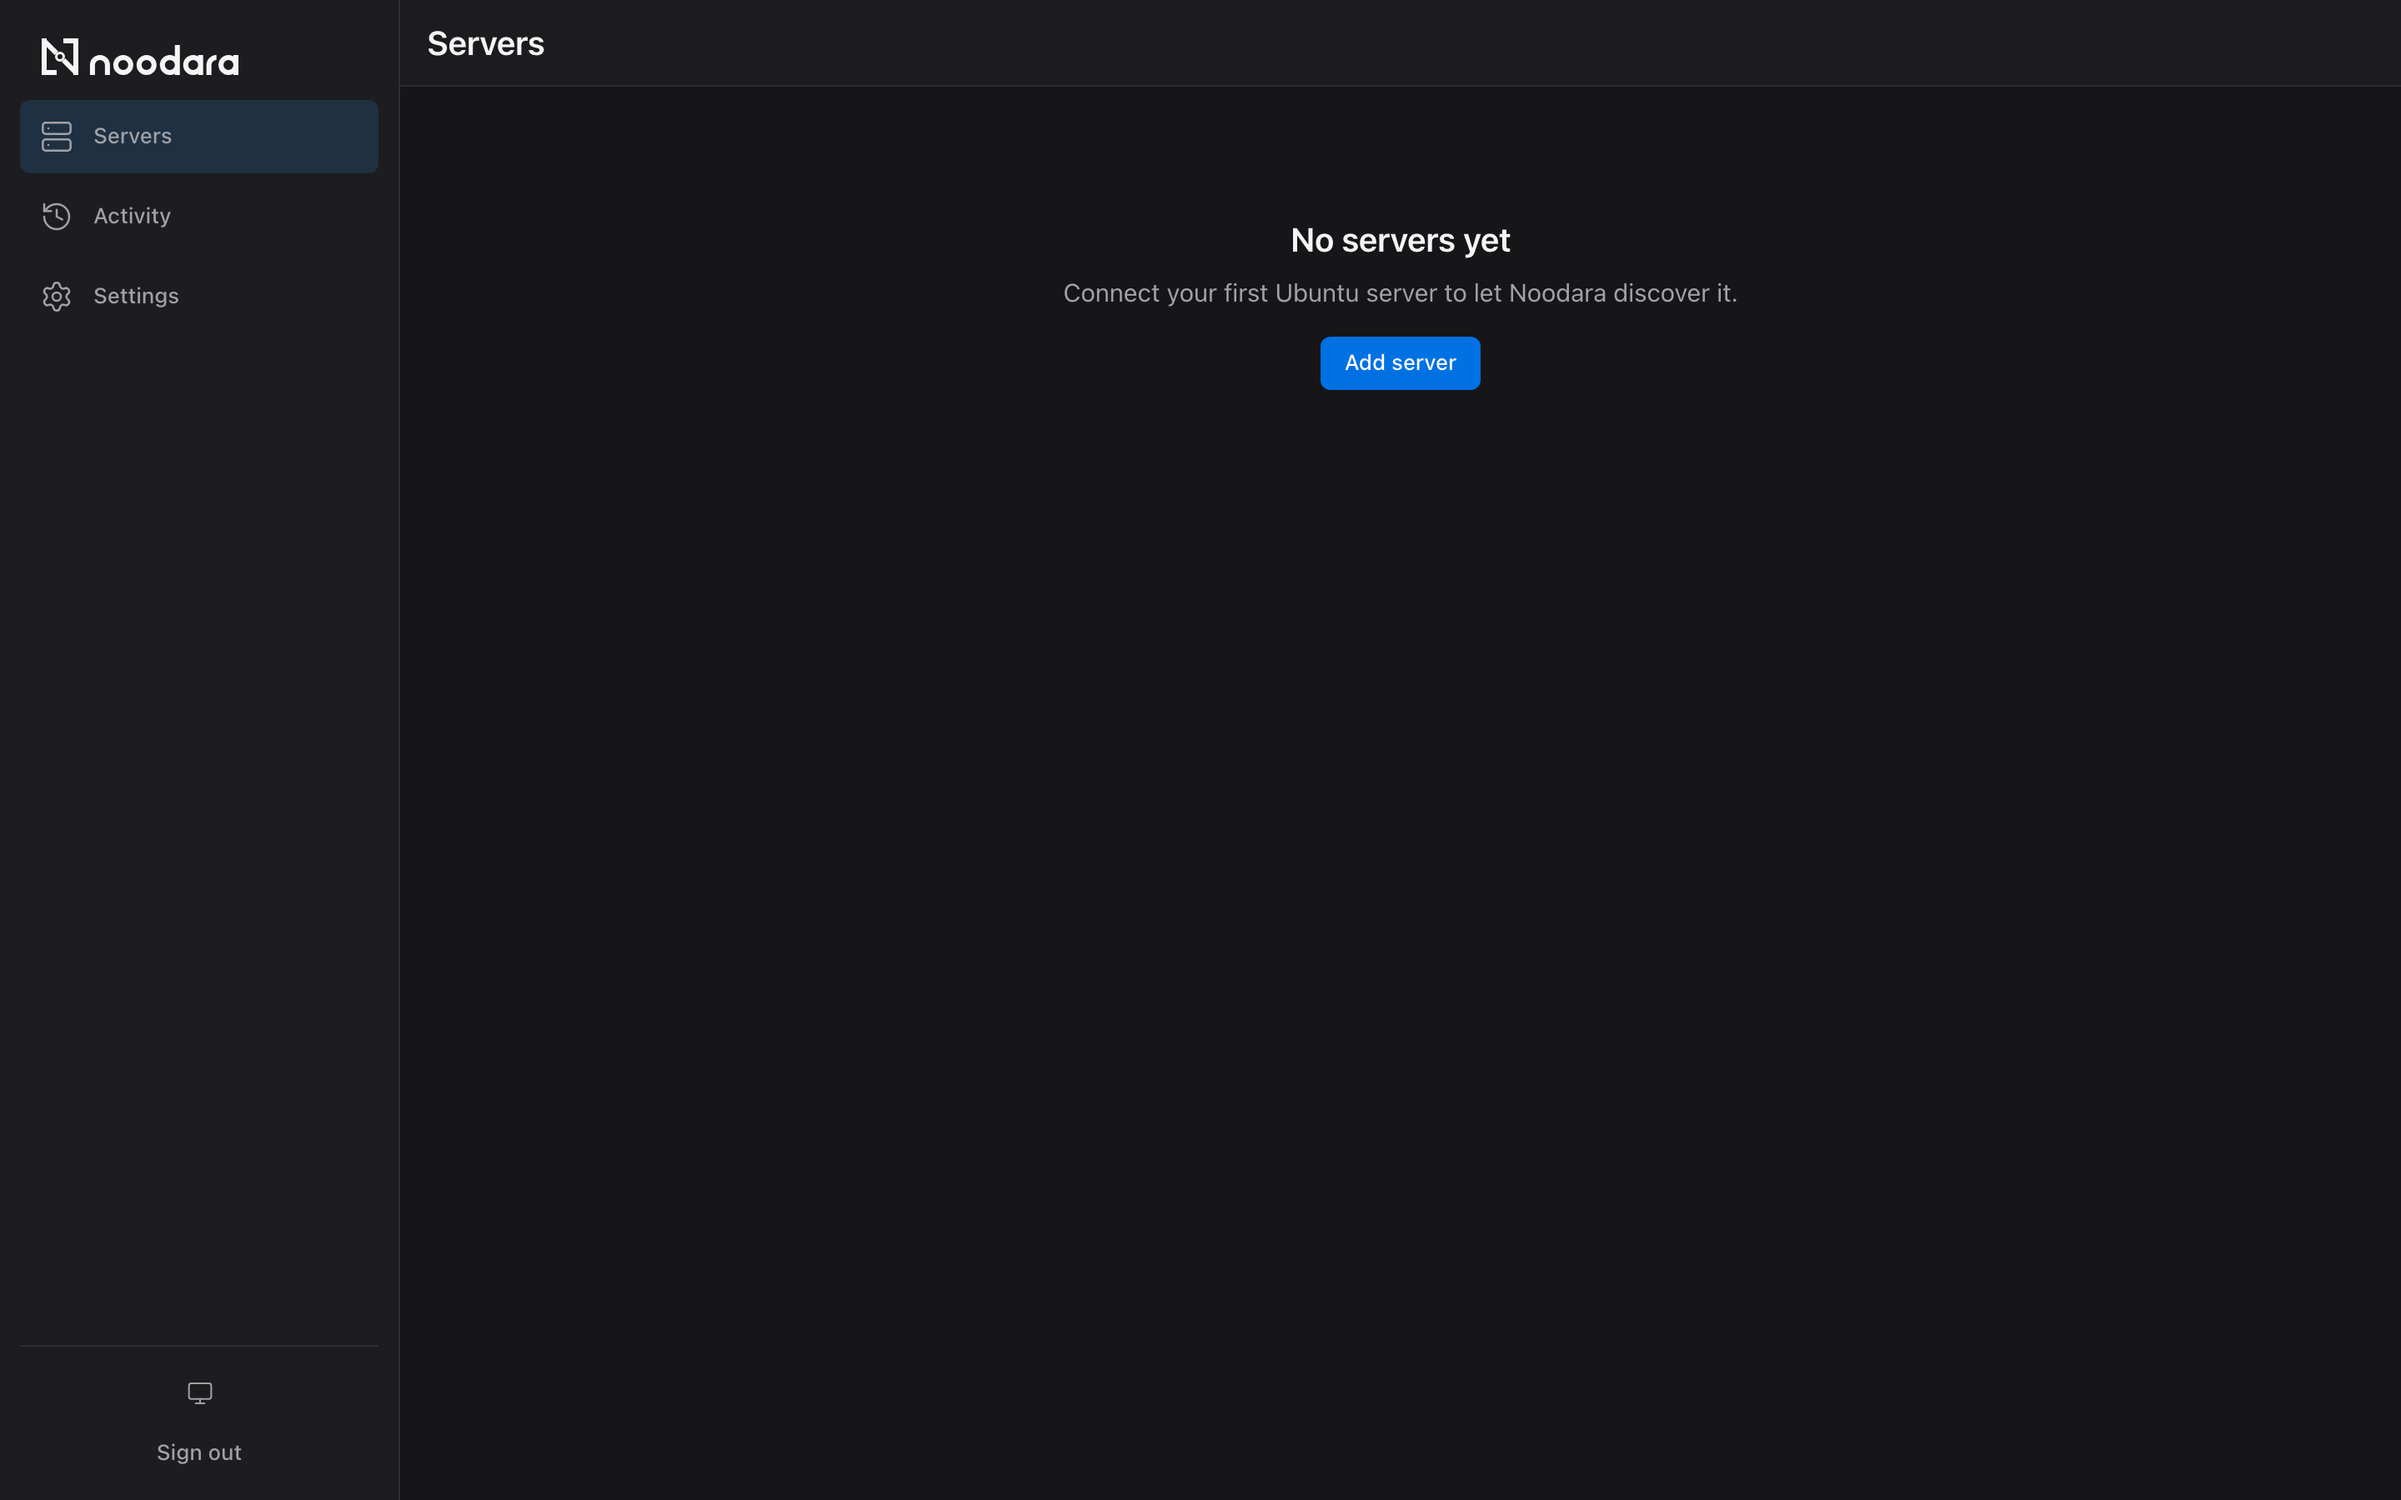
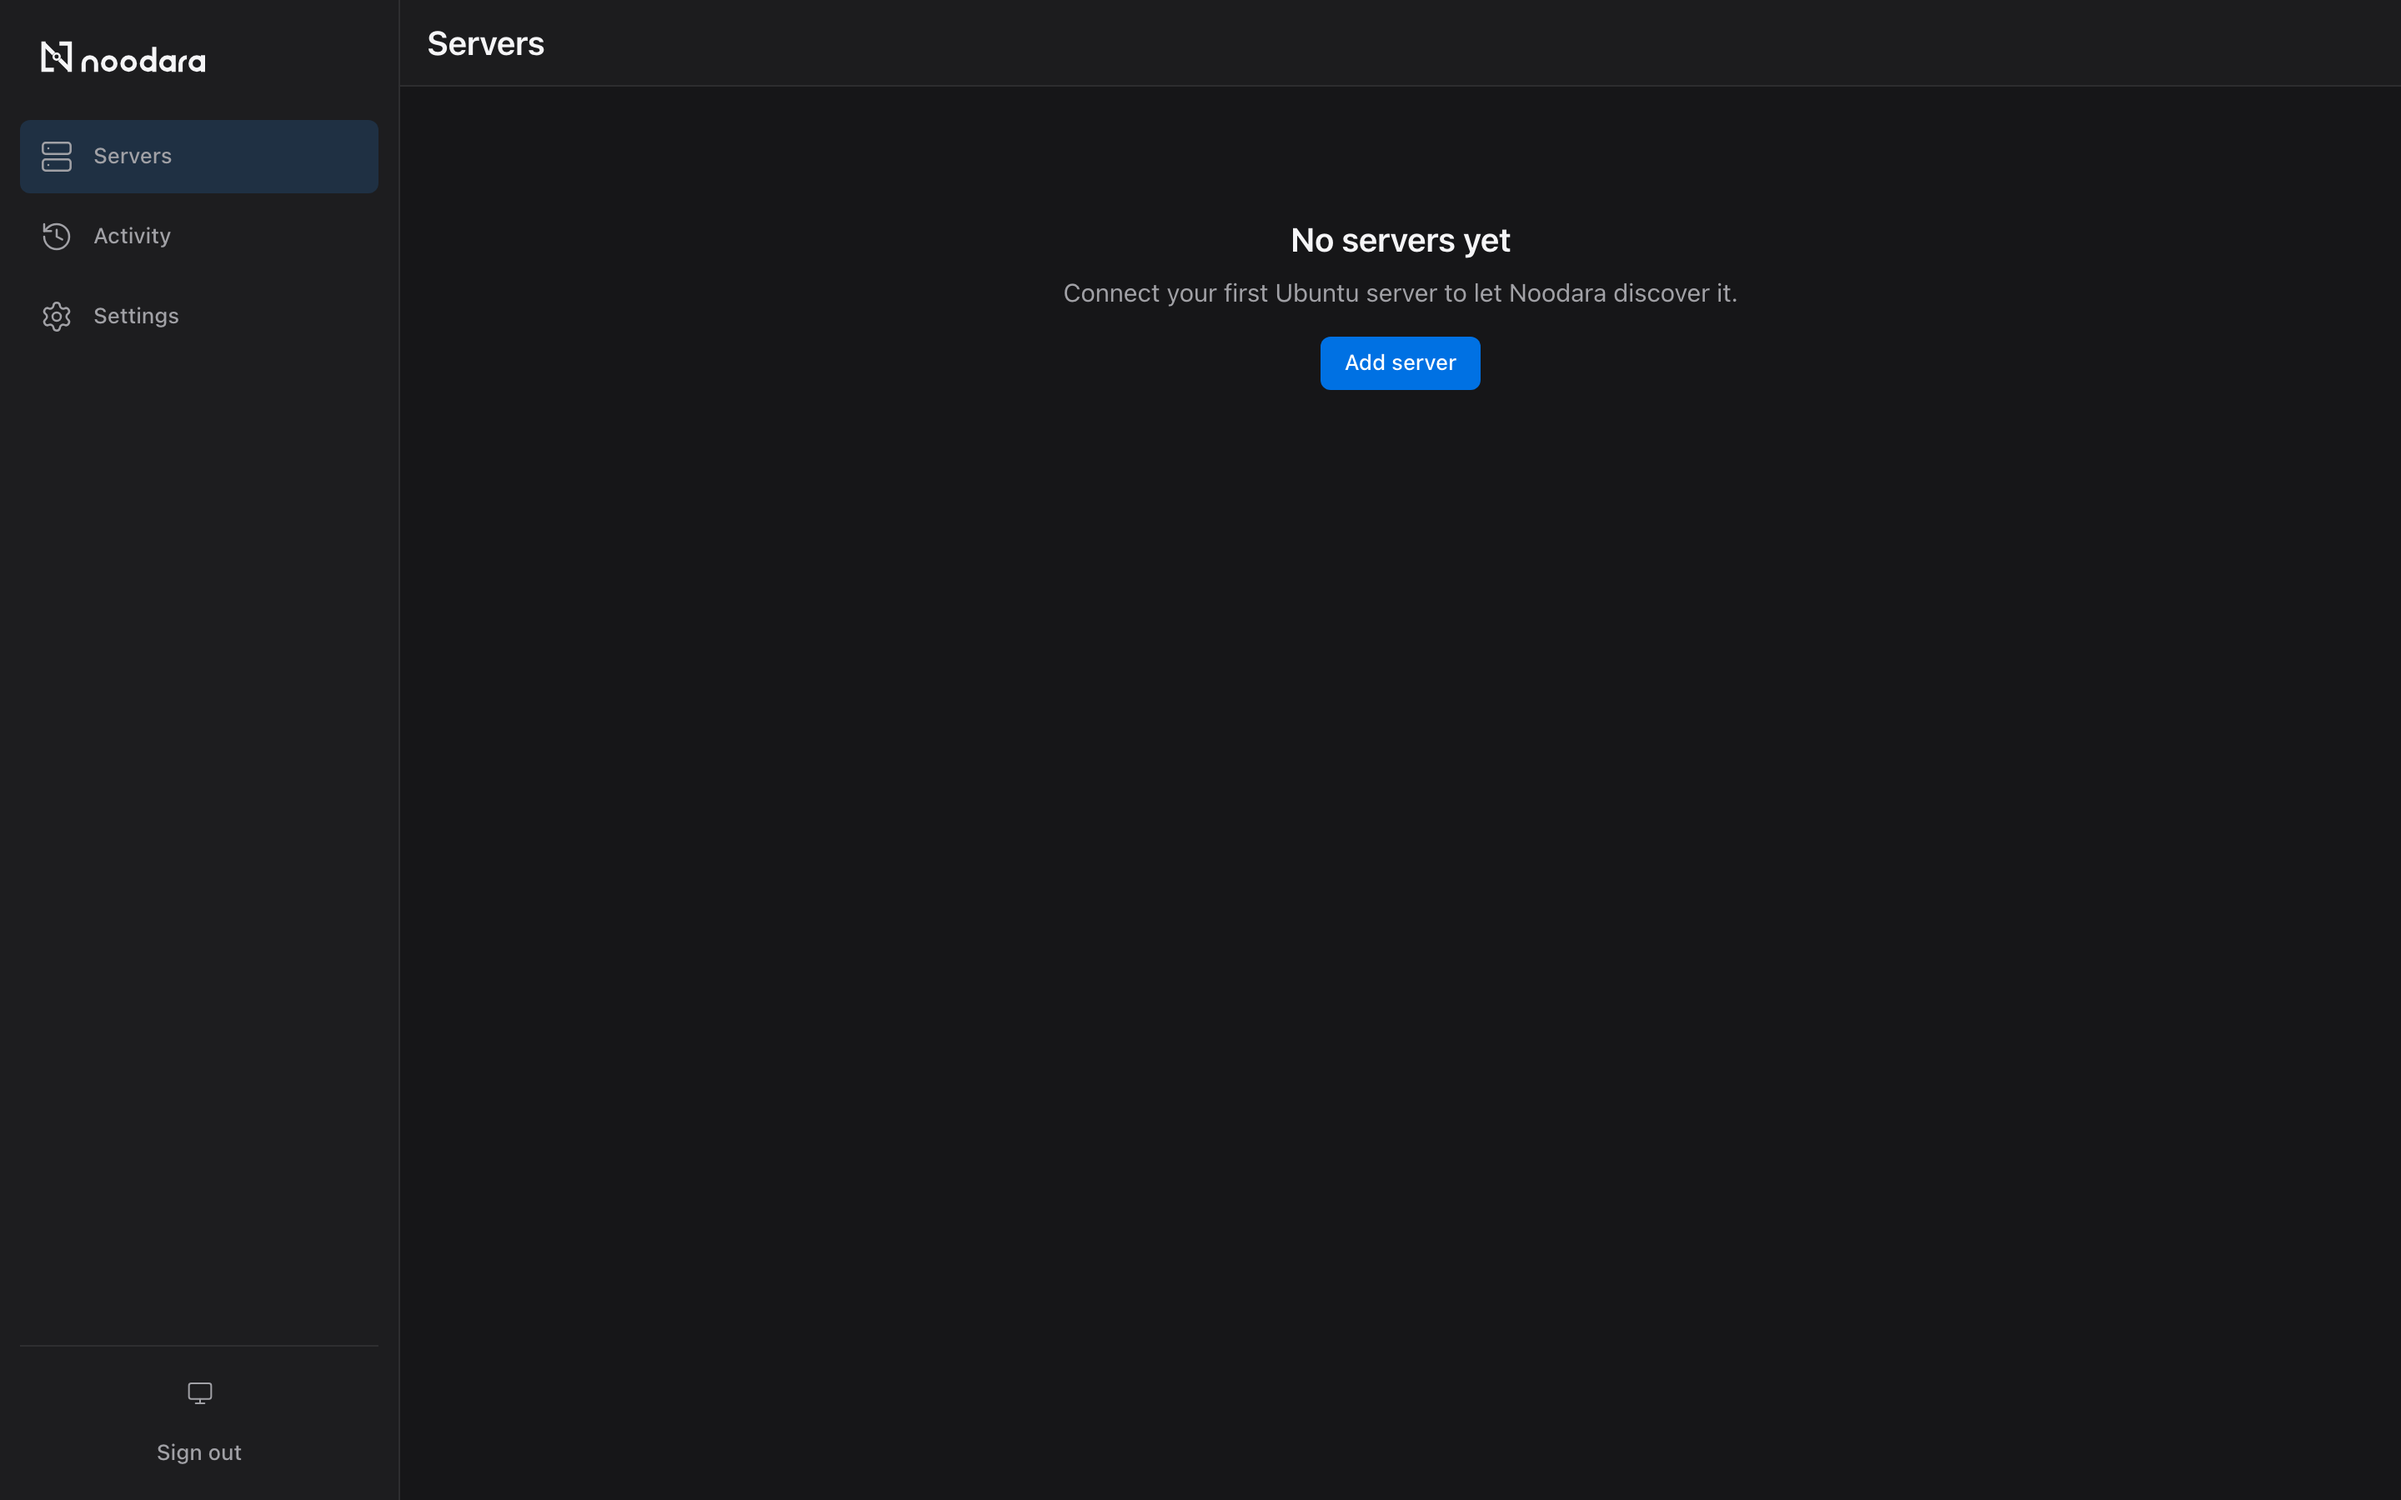
docs(07-07): ux review of the brand surfaces and refreshed approved captures
- docs/ui-review-07-brand.md: nine dimensions, global verdict PASS, no
  blockers, evidence by file:line, capture and passing assertion
- docs/brand/approved/: the eight in-app captures re-shot from the REAL
  mounted components (pnpm brand:review --mounted --concept c), replacing
  the review-time injected previews; the two boards are unchanged

Changed region(s): [[0.0, 0.0311, 0.1562, 0.1556], [0.0, 0.1867, 0.0938, 0.2178]]

diff --git a/docs/ui-review-07-brand.md b/docs/ui-review-07-brand.md
@@ -1,0 +1,84 @@
+# UX Review — Phase 7 brand surfaces (sidebar rail, expanded sidebar, /login, /setup)
+
+Date: 2026-09-22 · Commit: `51e3a05` · Reviewer: executor agent (`noodara-ux-review` skill, audited
+against `noodara-ux-apple`) · Mode: **screenshots + code**
+
+**Global verdict: PASS**
+
+Scope: the four surfaces BRAND-02 puts the approved mark on, and only those. Two files changed —
+`apps/web/src/components/Sidebar.tsx` (the brand slot above the nav list) and
+`apps/web/src/components/AuthCard.tsx` (the lockup above the heading). The mark itself
+(`packages/ui/src/brand/{Logo,Lockup}.tsx`) was audited in 07-03 and is unchanged here; this review
+covers how it is mounted, sized, coloured and announced.
+
+Screenshots are the eight freshly captured in-app surfaces in `docs/brand/approved/`, produced by
+`pnpm brand:review --mounted --concept c` from the real running stack with the real components —
+not the review-time DOM injection the earlier captures used. Four were opened and read directly
+(`sidebar-rail-light.png`, `sidebar-rail-dark.png`, `login-light.png`, `setup-dark.png`, plus the
+expanded-sidebar dark crop from `docs/brand/review/c/`).
+
+---
+
+## Verdicts by dimension
+
+| Dimension | Verdict | Evidence |
+|---|---|---|
+| 1. Tokens | PASS | The mark inherits its colour from `text-ink` on the wrapper and paints with `currentColor` — `Sidebar.tsx:37-38` (`BRAND_RAIL_CLASSES`/`BRAND_EXPANDED_CLASSES`, both ending in `text-ink`), `AuthCard.tsx:22`. No colour value is passed to either component: `grep -cE "color=\|text-accent\|fill=" apps/web/src/components/Sidebar.tsx apps/web/src/components/AuthCard.tsx` prints 0 for both, and the mounted SVG's own `fill` is asserted to be exactly `currentColor` in `Sidebar.test.tsx` ("renders the monogram as an svg painted with currentColor") and `AuthCard.test.tsx`. No hex, no `rgb(`, no gradient anywhere — `pnpm check:ui-safety` exits 0 on all nine repo-wide gates. D-09 holds: the single action colour is untouched by the brand, and in `login-light.png` the only blue on screen is still the Sign in button. |
+| 2. Surface and elevation | PASS | The brand slot adds no surface of its own: both wrappers are bare flex rows with no background, no border, no radius and no shadow (`Sidebar.tsx:37-38`, `AuthCard.tsx:22` — `flex items-center text-ink`). The sidebar's own `--surface-1` panel and hairline right border are unchanged (`Sidebar.tsx:59-63`), and the auth card keeps its single `rounded-lg`/`bg-surface-1` box (`AuthCard.tsx:21`). Visible in `sidebar-rail-dark.png`: the mark sits directly on the sidebar surface with no plate behind it. |
+| 3. Typography and hierarchy | PASS | No typographic level was added. The word "noodara" in the lockup is drawn geometry, not text (`packages/ui/src/brand/Lockup.tsx` renders `<path>` elements only), so the auth card still has exactly one heading level plus labels and body — `login-light.png` reads mark → `Sign in` (`--text-title`, weight 600, `AuthCard.tsx:25`) → field labels → button, three levels, unchanged from before the mark. The lockup at `height={22}` sits just under the `--text-title` cap height, so it reads as chrome above the heading rather than competing with it. |
+| 4. Layout and spacing | PASS | `h-11` (44px) is the sidebar's own item height (`ITEM_CLASSES`, `Sidebar.tsx:22-23`), and `px-3` is the same horizontal inset every nav item uses, so the monogram lands on the nav icons' own optical axis — visible in `sidebar-rail-light.png`, where the mark's centre sits directly above the Servers icon's centre in the 64px rail. `mb-3` (12px) is not a new number: `p-3`, `pt-3` and `gap-3` are already this file's established step (`Sidebar.tsx:59-63`, `:92`), and it separates brand from navigation by more than the 4px `gap-1` between nav items, which is the intent. The rail measures exactly 64px with the mark in it, asserted against the real browser in `tests/e2e/brand.spec.ts` ("the 64px rail shows the monogram and hides the lockup at 1024px"). On the auth card the mark takes the card's existing `gap-5` and adds no padding of its own (`AuthCard.tsx:21-24`). |
+| 5. Components | PASS | Both mount points compose `packages/ui`'s own `Logo`/`Lockup` rather than re-drawing anything (`Sidebar.tsx:14`, `:67`, `:70`; `AuthCard.tsx:2`, `:23`), and neither passes a `concept` or a `color` — the approved concept comes from `DEFAULT_CONCEPT` (`docs/brand/APPROVAL.md`), so a future adjustment round is a constant edit, never a call-site edit. The test ids are supplied by the caller (`brand-monogram`, `brand-lockup`), matching how `ThemeToggle` is given `shell-theme-toggle` two lines below. The mark is deliberately not a link or a button in v0.2 — asserted in `Sidebar.test.tsx` ("does not make the mark a link or a control"), which also pins the sidebar at exactly three links. |
+| 6. States (empty/loading/error) | PASS (nothing to regress) | The mark has no state: it renders identically whatever the page below it is doing, and it is outside every data-driven region. `sidebar-rail-light.png` and `sidebar-rail-dark.png` show it above the untouched "No servers yet" empty state (title + one sentence + one action, no illustration). No skeleton, no spinner and no banner changed — `pnpm check:ui-safety`'s `animate-spin`/`spinner` gate is still 0. |
+| 7. Progressive disclosure | PASS | The mark adds zero depth: it is chrome, always present at ≥900px, never a disclosure target. It is deliberately absent from the below-900px bottom sheet, where the only job is navigation and vertical space is scarce (`Sidebar.tsx:29-36` states this; proven in `tests/e2e/brand.spec.ts`, "the below-900px bottom sheet carries no mark, closed or open"). The rail keeps showing the monogram alone and the expanded sidebar the full lockup, so the amount of brand shown scales with the space available (D-04). |
+| 8. Copy | PASS | No user-facing string was added. The one new piece of text in the DOM is the SVG's accessible name, `Noodara` — the product name, exactly as spelled everywhere else, with no tagline, no exclamation and no marketing sentence (`Sidebar.tsx:67`, `:70`; `AuthCard.tsx:23`). Every existing string on the two auth screens is byte-identical, which is why `tests/e2e/auth.spec.ts`'s verbatim copy assertions still pass. |
+| 9. Accessibility and themes | PASS | **Named:** the rail shows no brand text at all, so the mark must carry its own name — `title="Noodara"` makes each SVG `role="img"` with that accessible name (`Sidebar.test.tsx` "names both marks Noodara as images", `AuthCard.test.tsx` "names the lockup Noodara as an image"). **Never announced twice:** the breakpoint switch is `display:none`, so exactly one of the two marks is in the accessibility tree at any width — `tests/e2e/brand.spec.ts` asserts `getByRole('img', { name: 'Noodara' })` has count 1 on `/login` and `/setup`, and the expanded/rail tests assert the other one is hidden. **Both themes:** proven by computed colour, not by eye alone — the same spec reads the rendered `color` in light and dark and asserts they differ, on both `/login` and the rail, which is the direct proof that `currentColor` follows the theme with one asset. The pair is `--ink` on `--surface-1`, the system's primary text pair and its highest-contrast one, so no new contrast measurement is at risk. **Keyboard:** the wrappers are plain `div`s with no `tabindex` and no `href`, so the focus order is untouched — re-verified in a real browser, `tests/e2e/shell.spec.ts --grep @shell`, 9/9 passing, including "pressing Tab from page load moves through the skip link, the three sidebar items, the theme toggle, then sign out". **No secret on screen:** every captured field is empty, including `/setup`'s Token (`setup-dark.png`), and the authenticated shots show the empty-state screen with no hostname and no account email. |
+
+---
+
+## Blockers
+
+None. No non-negotiable rule was broken: no second accent, no decorative gradient, no shadow on a
+card or button, no inline hex, no state conveyed by colour alone, no missing theme, no visible
+secret.
+
+## Suggested corrections
+
+None required for release. Two items were considered and deliberately left as they are:
+
+1. **The rail monogram is 24px while the nav icons are 20px.** This is intentional, not a drift
+   from the skill's 16/20px icon scale: the mark is the product's identity, not a member of the
+   icon family, and at 20px the Viewfinder's centre ring loses its counter. The 4px difference is
+   what makes the mark read as a brand rather than a fourth nav item, and the capture
+   (`sidebar-rail-light.png`) shows the two still sharing one optical axis.
+2. **No tooltip on the rail mark.** Every nav item has one because every nav item is a control.
+   The mark is not interactive in v0.2 (Phase 8 decides whether it becomes a link home), so a
+   tooltip would advertise an affordance that does not exist. Its accessible name covers the
+   screen-reader case.
+
+## What works well
+
+- **One asset, two themes, zero branching.** There is no light/dark brand variant, no theme
+  conditional and no second file — the mark inherits `--ink` through `currentColor`, and that is
+  now proven by a computed-colour assertion in a real browser rather than by convention.
+- **The breakpoint story is honest at every width.** Full lockup where there is room, monogram
+  alone in the rail, nothing at all in the bottom sheet — and each of the three is asserted, not
+  assumed.
+- **Nothing existing moved.** The diff is an extended import, two named class constants and one
+  five-line block in `Sidebar.tsx`, plus one wrapper in `AuthCard.tsx`. Every test id the E2E suite
+  depends on is intact, and `@shell`, `@auth` and `@setup` (26 tests) were re-run against the real
+  stack after the mount, all passing.
+- **The call sites hold no brand knowledge.** No concept id, no colour, no geometry — the approval
+  record drives what gets drawn, so a future adjustment round never touches `apps/web`.
+
+## Needs human review
+
+A screenshot at 2× on a headless Chromium settles layout and colour, not craft. These still want a
+person in front of a real display:
+
+1. The monogram's optical weight at 24px in the rail on a non-retina screen — whether the counter
+   inside the ring stays open.
+2. Whether the lockup above `Sign in` feels like the right size relative to the heading, or wants
+   a point more or less.
+3. The 12px gap between the mark and the first nav item at both sidebar widths, judged by eye.
+4. The mark on a real browser tab as a favicon — still uncapturable by Playwright, and still
+   07-09's own check.
